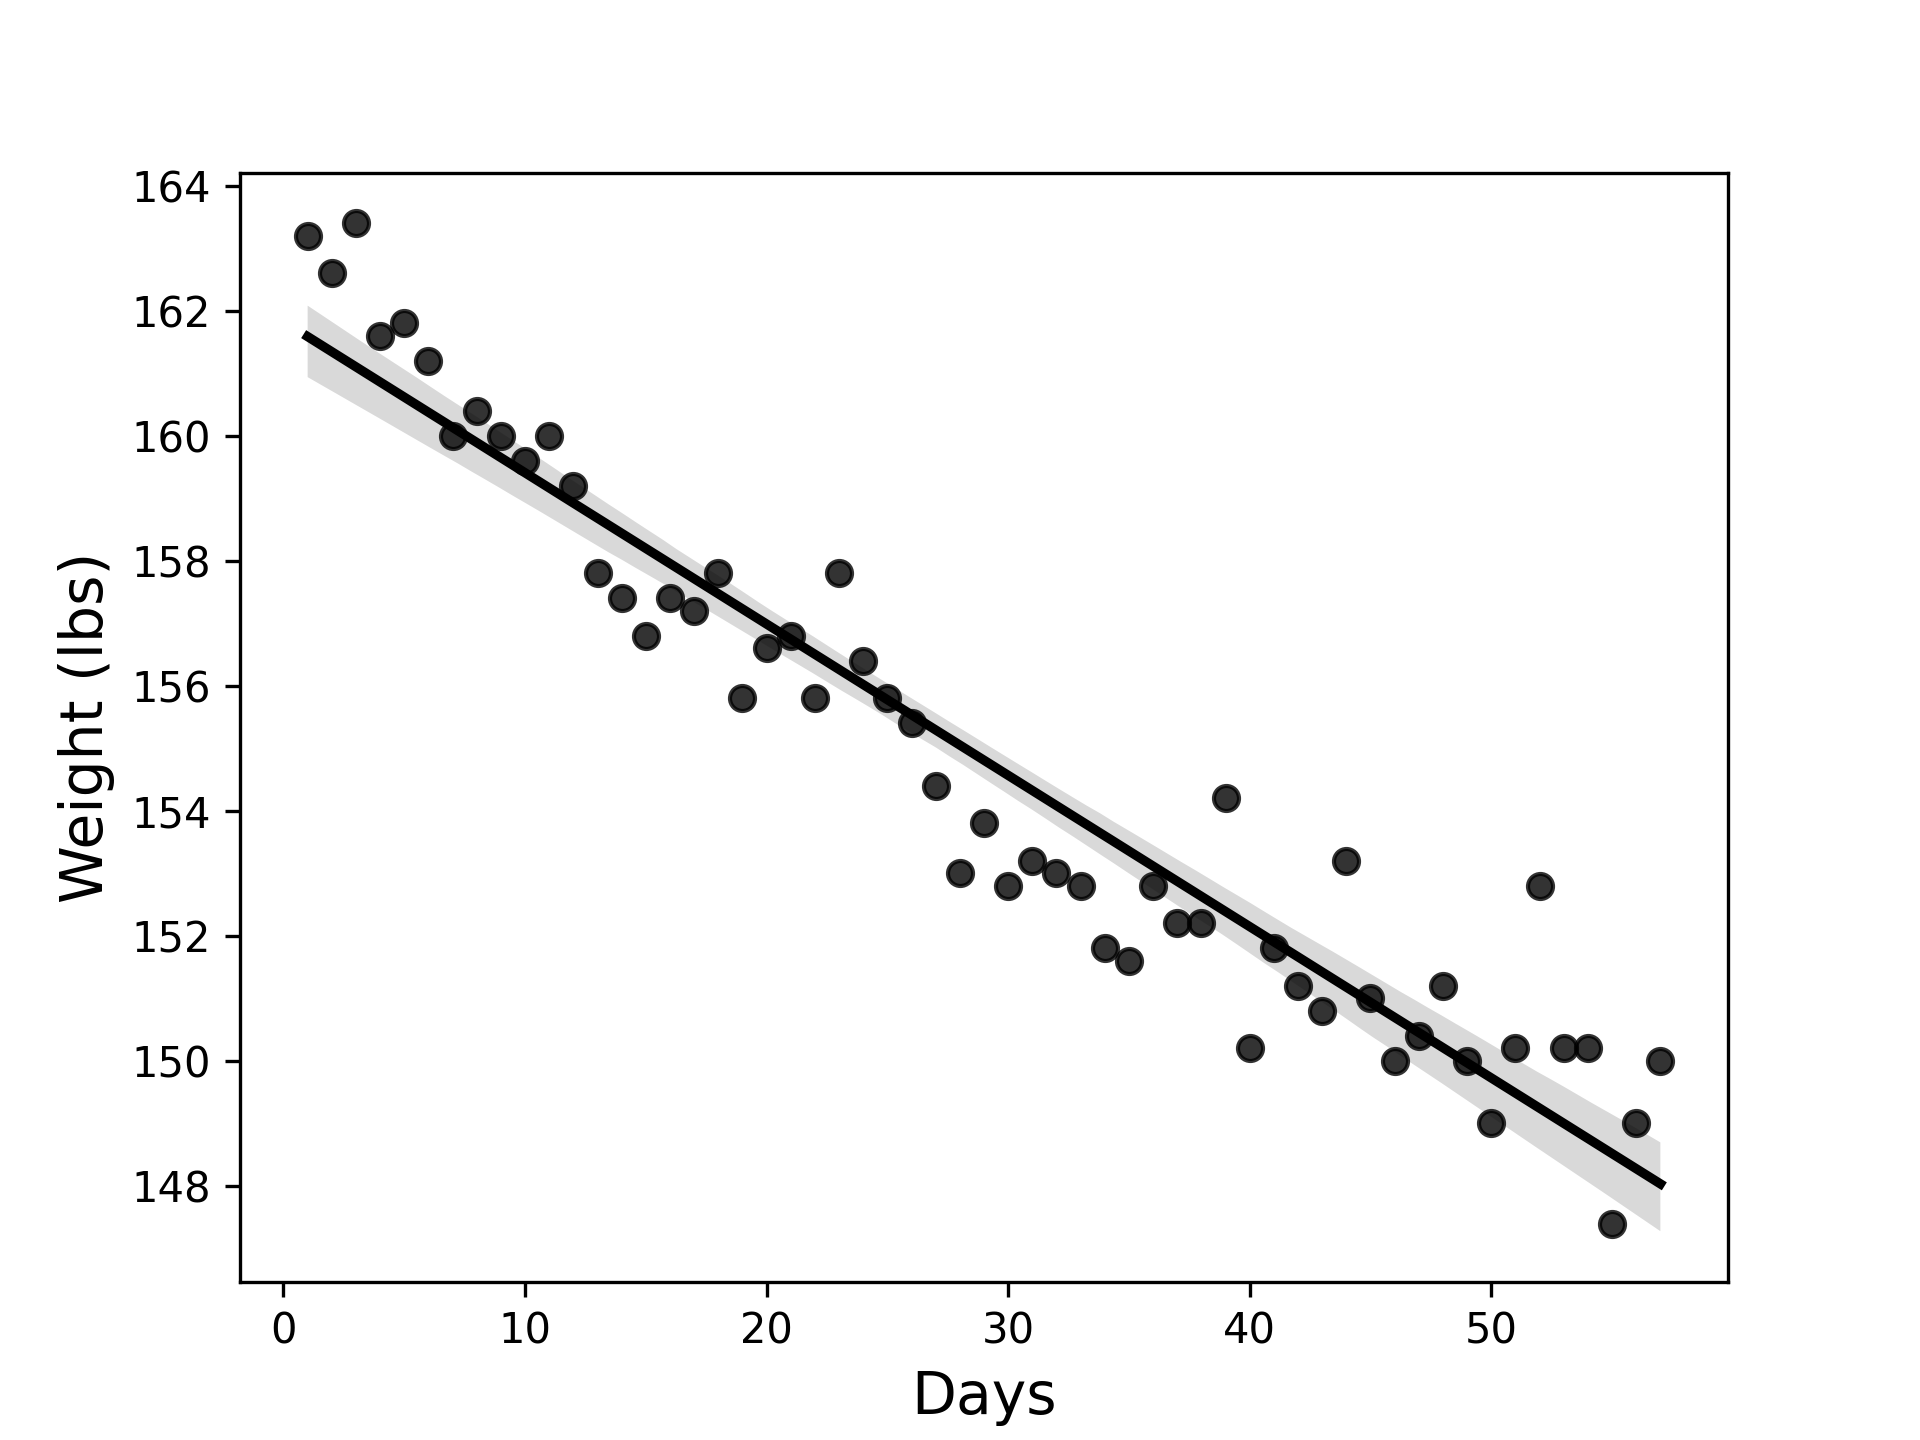
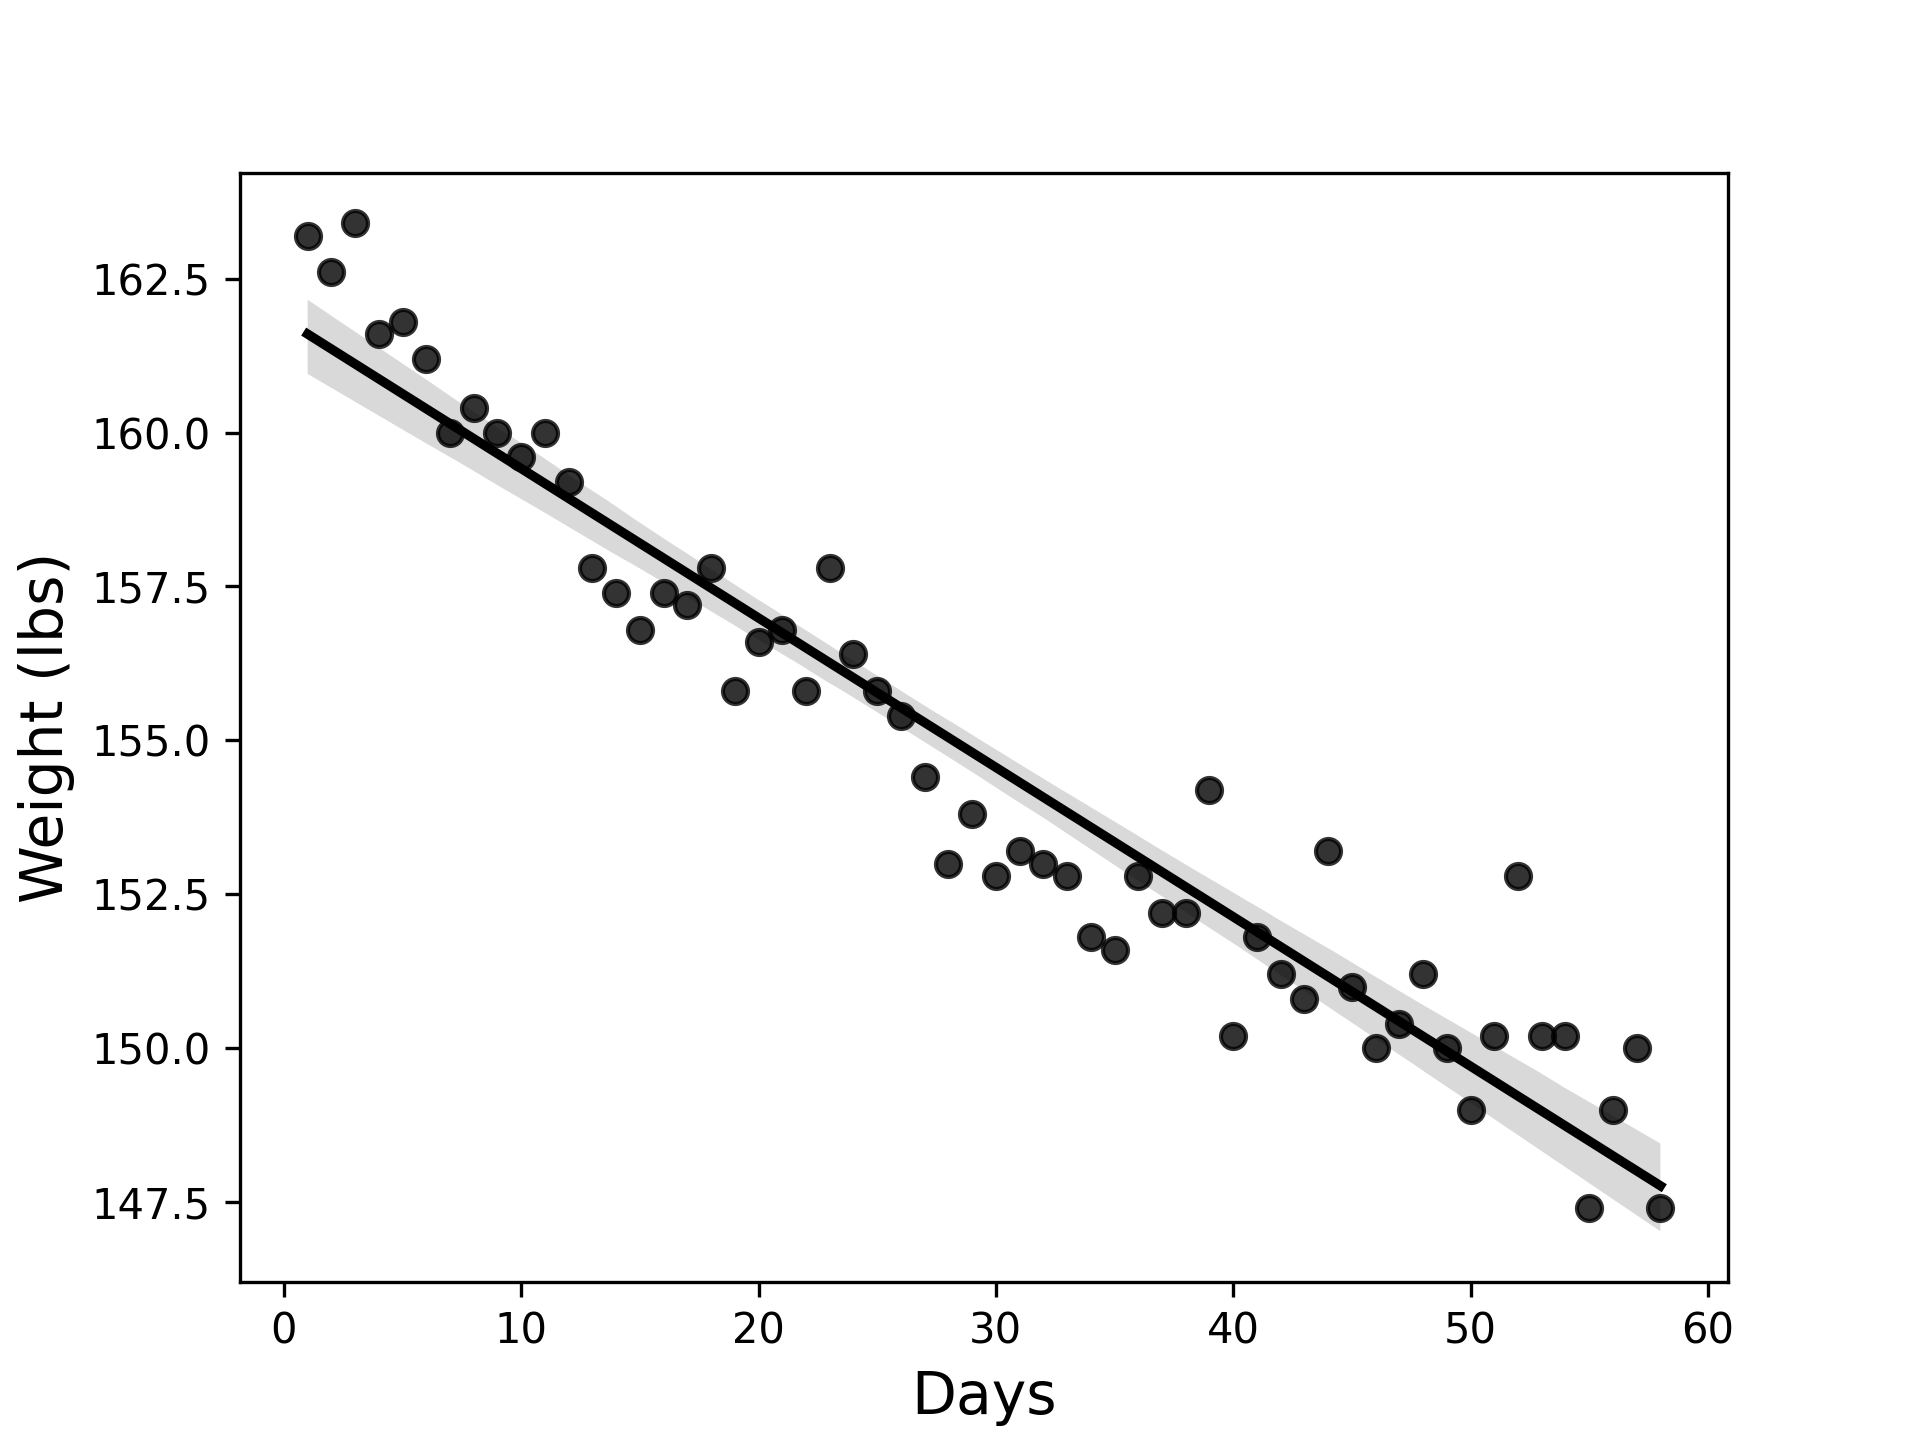
Updated weight.py and weight.png

diff --git a/Weight.py b/Weight.py
@@ -7,11 +7,11 @@ import seaborn as sns
 # Creates an array of elapsed days and assigns it to days_elapsed
 days_elapsed = np.array([1, 2, 3 ,4, 5, 6, 7, 8, 9, 10,11,12,13, 14,15,16,17,18,
                          19, 20,21,22,23,24,25,26,27,28,29,30,31,32,33,34,35,36,37,38,39,
-                         40,41,42,43,44,45,46,47,48,49,50,51,52,53,54,55,56,57]).reshape(-1,1)
+                         40,41,42,43,44,45,46,47,48,49,50,51,52,53,54,55,56,57,58]).reshape(-1,1)
 weight = np.array([163.2, 162.6, 163.4, 161.6, 161.8, 161.2, 160.0, 160.4, 160.0, 159.6,160.0,159.2,157.8, 157.4,156.8,157.4,
                    157.2, 157.8,155.8, 156.6,156.8,155.8,157.8,156.4,155.8,155.4,154.4,153.0,153.8,152.8,153.2,
                    153.0,152.8,151.8,151.6,152.8,152.2,152.2,154.2,150.2, 151.8,151.2,150.8,153.2,
-                   151.0,150.0,150.4,151.2,150.0,149.0,150.2,152.8,150.2,150.2,147.4,149.0,150.0])
+                   151.0,150.0,150.4,151.2,150.0,149.0,150.2,152.8,150.2,150.2,147.4,149.0,150.0,147.4])
 
 # Instantiates a LinearRegression model and fits it to the above arrays
 model = sklearn.linear_model.LinearRegression().fit(days_elapsed,weight)
